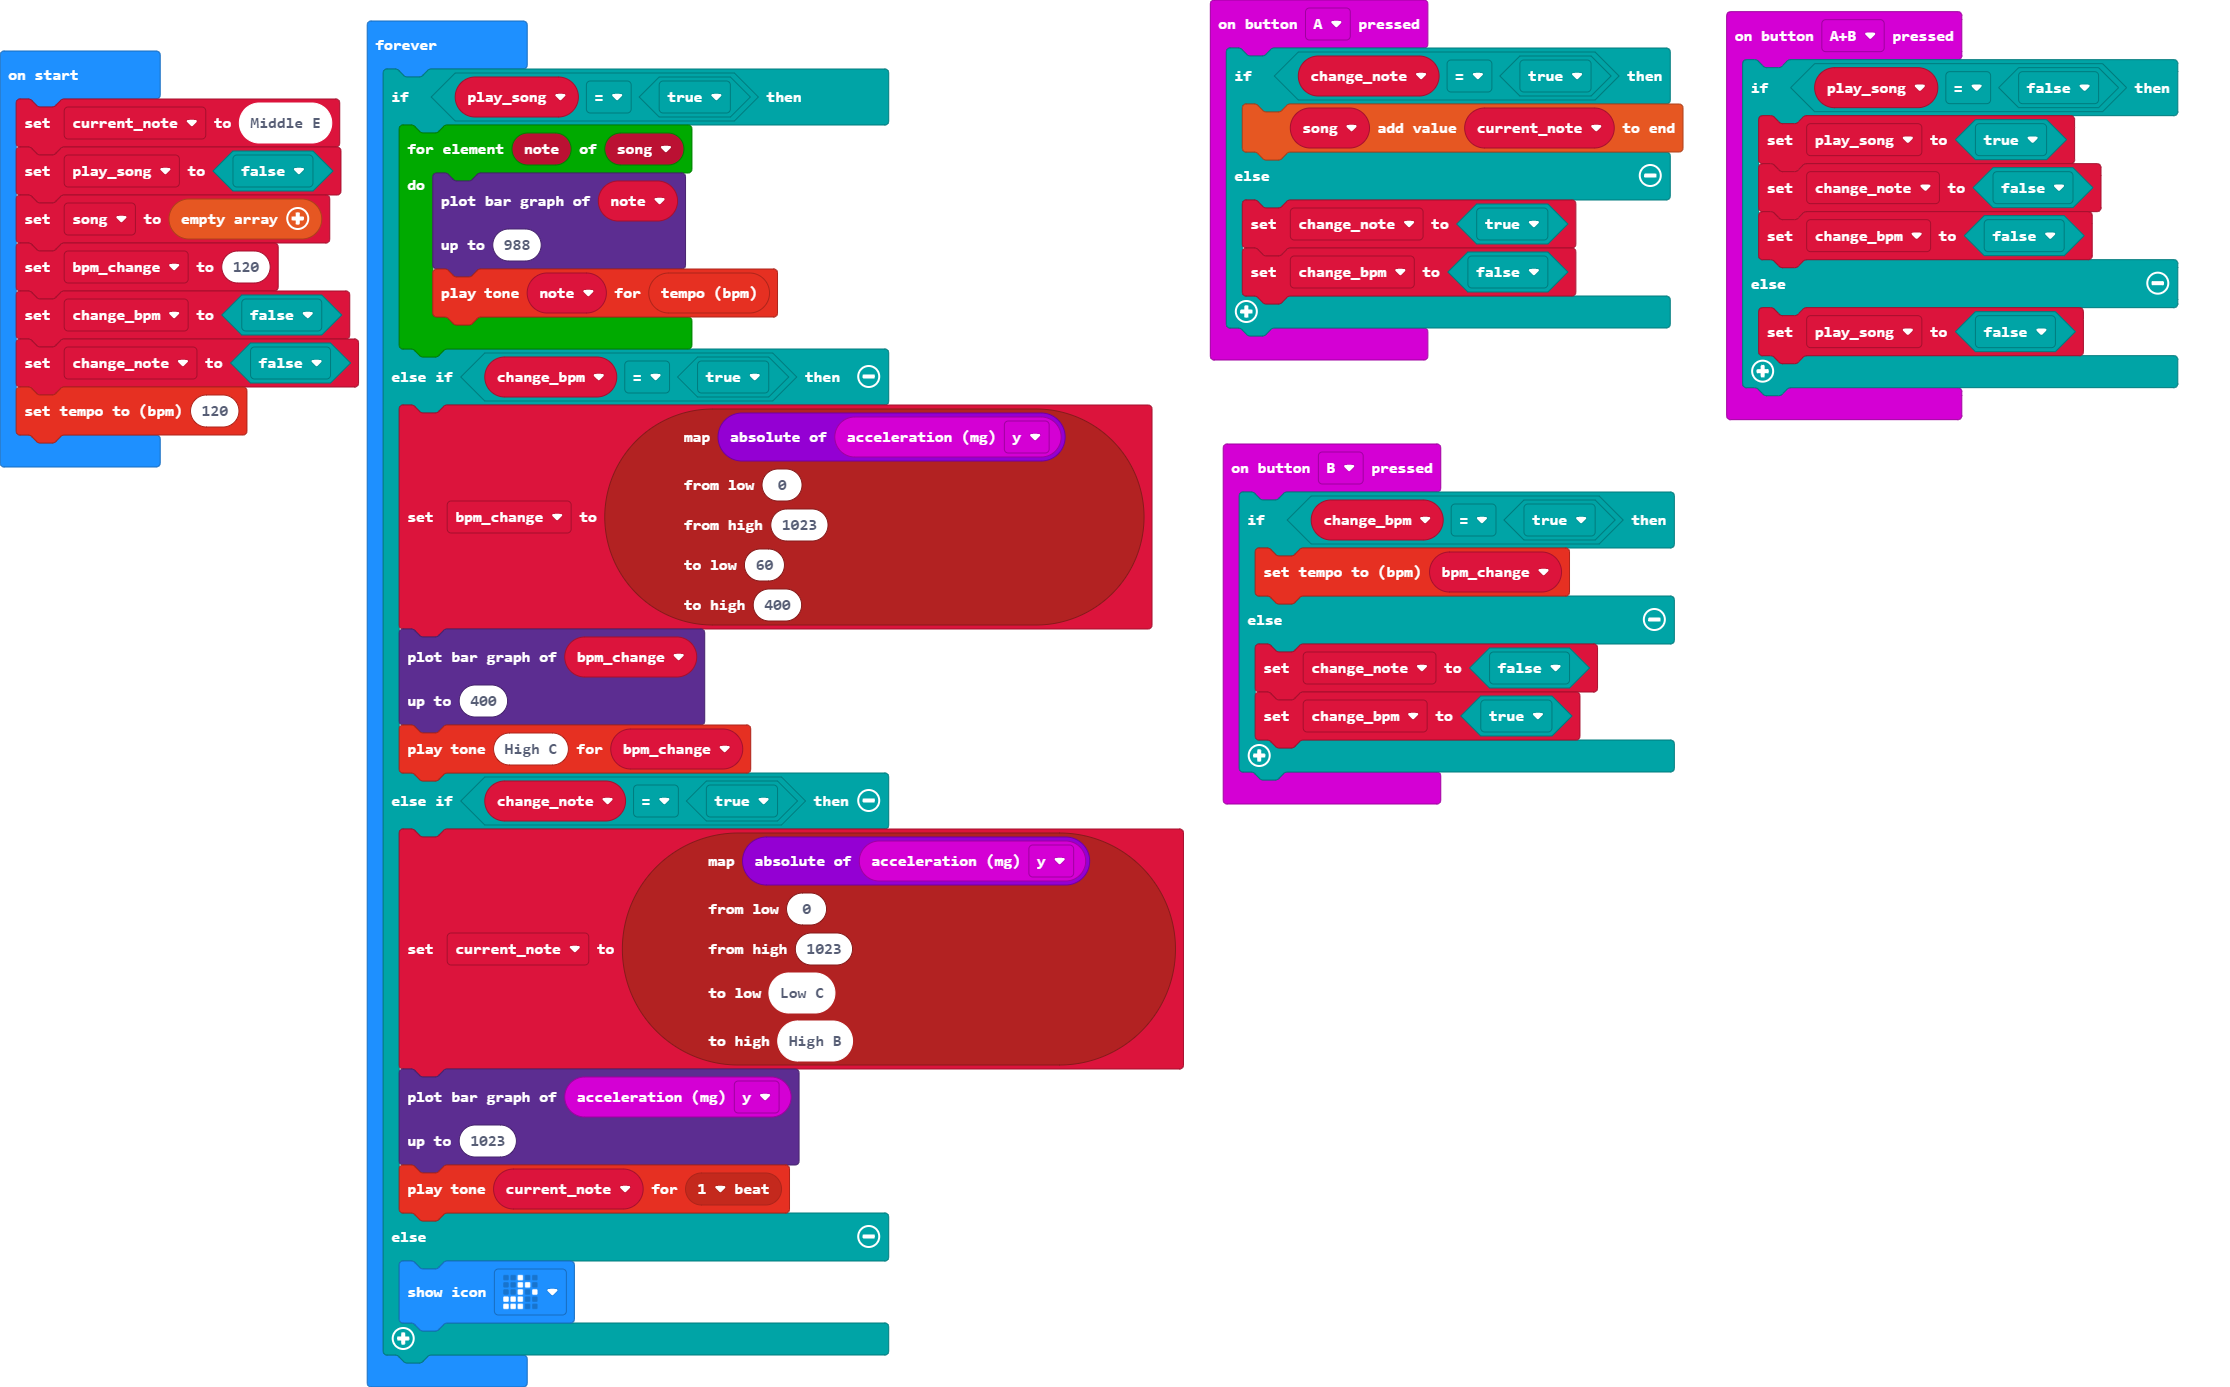
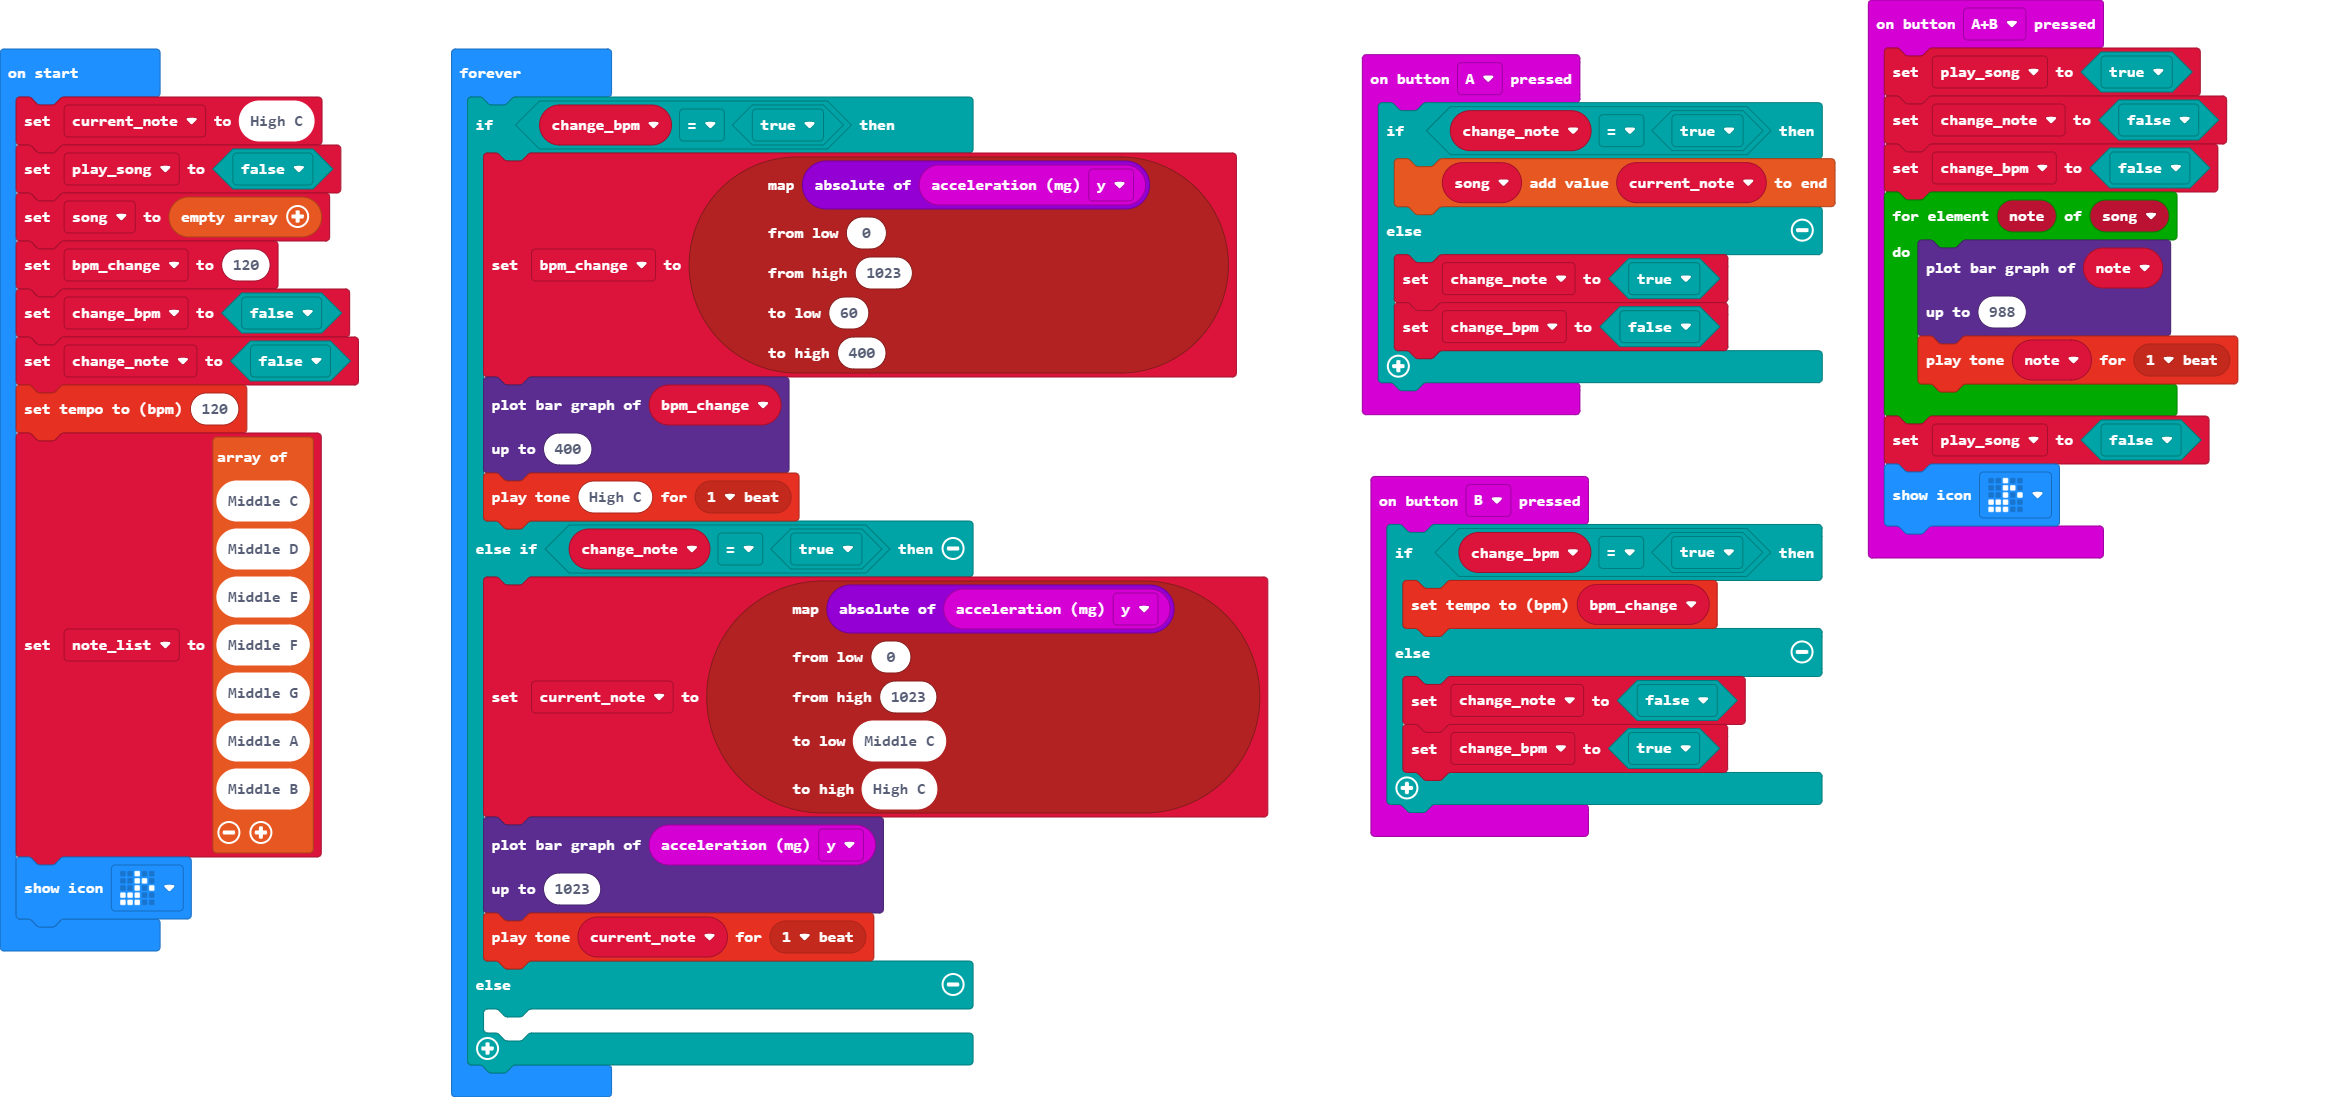
Update main.blocks, main.ts

diff --git a/main.ts b/main.ts
@@ -7,13 +7,18 @@ input.onButtonPressed(Button.A, function () {
     }
 })
 input.onButtonPressed(Button.AB, function () {
-    if (play_song == false) {
-        play_song = true
-        change_note = false
-        change_bpm = false
-    } else {
-        play_song = false
+    play_song = true
+    change_note = false
+    change_bpm = false
+    for (let note of song) {
+        led.plotBarGraph(
+        note,
+        988
+        )
+        music.playTone(note, music.beat(BeatFraction.Whole))
     }
+    play_song = false
+    basic.showIcon(IconNames.EigthNote)
 })
 input.onButtonPressed(Button.B, function () {
     if (change_bpm == true) {
@@ -29,23 +34,25 @@ let bpm_change = 0
 let song: number[] = []
 let play_song = false
 let current_note = 0
-current_note = 330
+current_note = 523
 play_song = false
 song = []
 bpm_change = 120
 change_bpm = false
 change_note = false
 music.setTempo(120)
+let note_list = [
+262,
+294,
+330,
+349,
+392,
+440,
+494
+]
+basic.showIcon(IconNames.EigthNote)
 basic.forever(function () {
-    if (play_song == true) {
-        for (let note of song) {
-            led.plotBarGraph(
-            note,
-            988
-            )
-            music.playTone(note, music.tempo())
-        }
-    } else if (change_bpm == true) {
+    if (change_bpm == true) {
         bpm_change = pins.map(
         Math.abs(input.acceleration(Dimension.Y)),
         0,
@@ -57,14 +64,14 @@ basic.forever(function () {
         bpm_change,
         400
         )
-        music.playTone(523, bpm_change)
+        music.playTone(523, music.beat(BeatFraction.Whole))
     } else if (change_note == true) {
         current_note = pins.map(
         Math.abs(input.acceleration(Dimension.Y)),
         0,
         1023,
-        131,
-        988
+        262,
+        523
         )
         led.plotBarGraph(
         input.acceleration(Dimension.Y),
@@ -72,6 +79,6 @@ basic.forever(function () {
         )
         music.playTone(current_note, music.beat(BeatFraction.Whole))
     } else {
-        basic.showIcon(IconNames.EigthNote)
+    	
     }
 })
